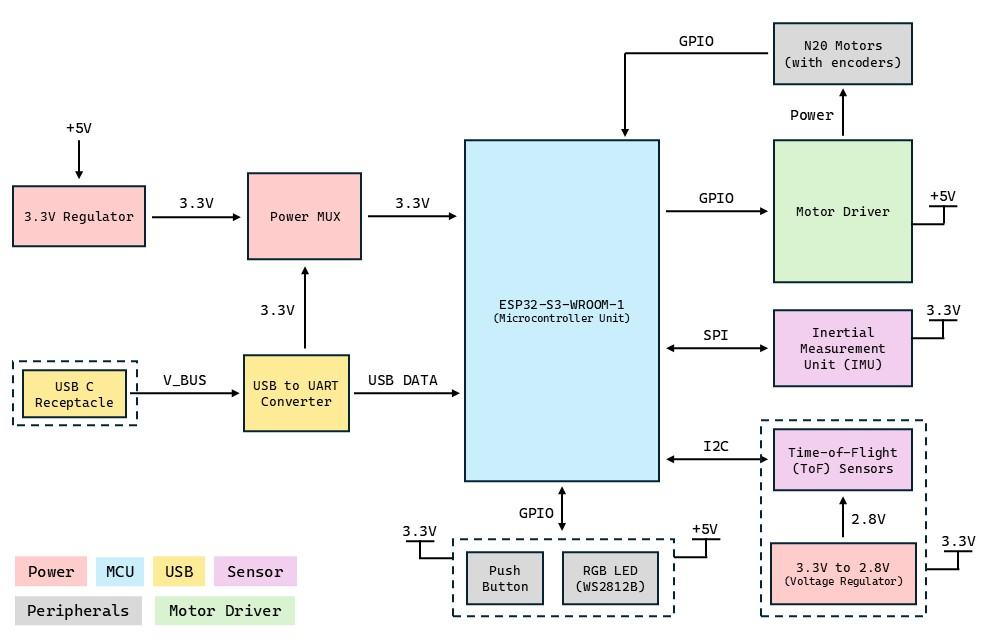
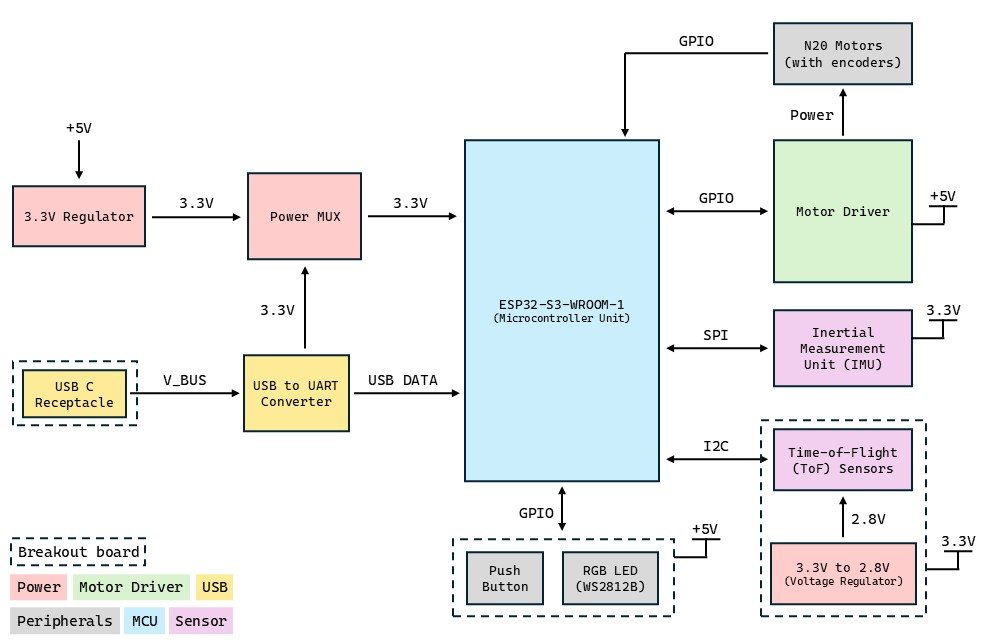
Updating README and block diagram.

Changed region(s): [[0.0, 0.8398, 0.3094, 0.9953], [0.4022, 0.8087, 0.4331, 0.8709], [0.4022, 0.311, 0.4331, 0.3421]]

diff --git a/README.md b/README.md
@@ -2,4 +2,4 @@
 
 ## Hardware Block Diagram
 The image below shows a high-level block diagram of the hardware architecture.
-<img src="assets/hw_block_diagram.jpg" alt="Hardware Block Diagram" width="850">
+<img src="assets/hw_block_diagram.jpg" alt="Hardware Block Diagram" width="800">
